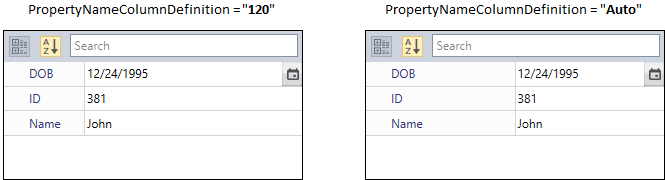
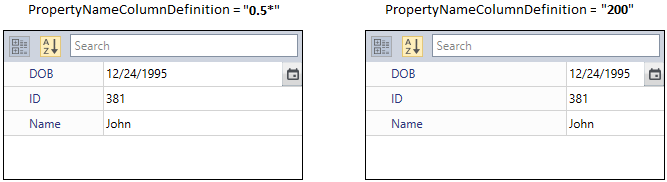
PF-54985-PropertyGrid Review changes committed.

diff --git a/wpf/PropertyGrid/Collection-Editor.md b/wpf/PropertyGrid/Collection-Editor.md
@@ -263,7 +263,7 @@ N> View [Sample](https://github.com/SyncfusionExamples/wpf-property-grid-example
 
 If you want to restrict the user to add or remove the items in the collection type properties, handle the [CollectionEditorOpening](https://help.syncfusion.com/cr/wpf/Syncfusion.Windows.PropertyGrid.PropertyGrid.html#Syncfusion_Windows_PropertyGrid_PropertyGrid_CollectionEditorOpening) event and set the [CollectionEditorOpeningEventArgs.IsReadonly](https://help.syncfusion.com/cr/wpf/Syncfusion.Windows.PropertyGrid.CollectionEditorOpeningEventArgs.html#Syncfusion_Windows_PropertyGrid_CollectionEditorOpeningEventArgs_IsReadonly) property value as `true`. The default value of `CollectionEditorOpeningEventArgs.IsReadonly` property is `false`.
 
-N> You cannot able to add or remove the items into the collection type properties. But, you can edit and save the existing items that are available in the collection type properties.
+N> You will not be able to add or remove the items into the collection type properties. But, you can edit and save the existing items that are available in the collection type properties.
 
 {% tabs %}
 {% highlight C# %}
@@ -364,11 +364,13 @@ private void propertyGrid_CollectionEditorOpening(object sender, CollectionEdito
 
 Here, `Add` and `Remove` buttons are disabled. `Ok` and `Cancel` button are enabled to edit the existing item values.
 
+N> [View Sample in GitHub](https://github.com/SyncfusionExamples/wpf-property-grid-examples/tree/master/Samples/CollectionEditorOpening)
+
 ## Readonly mode for specific property of collection type
 
 If you want to restrict the user to add or remove the items in the specific property of collection type, create that collection property as the type of `ReadOnlyCollection`.
 
-N> You cannot able to add or remove the items into the readonly collection type properties. But, you can edit and save the existing items that are available in the readonly collection type properties.
+N> You will not be able to add or remove the items into the readonly collection type properties. But, you can edit and save the existing items that are available in the readonly collection type properties.
 
 {% tabs %}
 {% highlight C# %}
@@ -452,9 +454,11 @@ propertyGrid.SetBinding(PropertyGrid.SelectedObjectProperty, new Binding("DemoPr
 
 ![Specific collection type property is loaded in readonly mode](CollectionEditor_Images/SpecificCollectionEditorredonly.png)
 
-Here, `Customers` property is a readonly collection type property. So, you cannot able to add or remove the items into the `Customers` property. 
+Here, `Customers` property is a readonly collection type property. So, you will not be able to add or remove the items into the `Customers` property.
 
-## Restrict collection editor window for collection type properties
+N> [View Sample in GitHub](https://github.com/SyncfusionExamples/wpf-property-grid-examples/tree/master/Samples/CollectionEditorOpening)
+
+## Restrict the collection editor from opening
 
 You can restirct the opening of collection editor window which used to edit the collection type properties in `PropertyGrid` by handling the [CollectionEditorOpening](https://help.syncfusion.com/cr/wpf/Syncfusion.Windows.PropertyGrid.PropertyGrid.html#Syncfusion_Windows_PropertyGrid_PropertyGrid_CollectionEditorOpening) event and set the [CollectionEditorOpeningEventArgs.Cancel](https://help.syncfusion.com/cr/wpf/Syncfusion.Windows.PropertyGrid.CollectionEditorOpeningEventArgs.html) property value as `true`. The default value of `CollectionEditorOpeningEventArgs.Cancel` property is `false`.
 
@@ -557,3 +561,5 @@ private void propertyGrid_CollectionEditorOpening(object sender, CollectionEdito
 {% endtabs %}
 
 ![PropertyGrid restrict the collection editor window opening](CollectionEditor_Images/CollectionEditorOpening.png)
+
+N> [View Sample in GitHub](https://github.com/SyncfusionExamples/wpf-property-grid-examples/tree/master/Samples/CollectionEditorOpening)

diff --git a/wpf/PropertyGrid/Getting-Started.md b/wpf/PropertyGrid/Getting-Started.md
@@ -160,59 +160,6 @@ propertyGrid1.SetBinding(PropertyGrid.SelectedObjectProperty, new Binding("Selec
 
 Here, the `SelectedEmployee` object is set as `SelectedObject` for the `PropertyGrid`. Thus, the `PropertyGrid` shows all the properties available in the `SelectedEmployee` object.
 
-## Change property name column width
-
-By default, name of the property items and its value column are splits the available width equally. If you want to changes the property name column width, use the [PropertyNameColumnDefinition](https://help.syncfusion.com/cr/wpf/Syncfusion.Windows.PropertyGrid.PropertyGrid.html#Syncfusion_Windows_PropertyGrid_PropertyGrid_PropertyNameColumnDefinition) property. After changing the property name column width, you can easily reset to the default column width by setting the `PropertyNameColumnDefinition` property values as `Auto`. The default value of `PropertyNameColumnDefinition` property is `Auto`.
-
-{% tabs %}
-{% highlight C# %}
-
-using System;
-using System.ComponentModel;
-using System.ComponentModel.DataAnnotations;
-
-public class Employee {
-    public string Name { get; set; }
-    public string ID { get; set; }
-    public DateTime DOB { get; set; }
-}
-
-public class ViewModel {
-    public Object SelectedEmployee { get; set; }
-    public ViewModel() {
-        SelectedEmployee = new Employee()
-        {
-            Name = "John",
-            ID = "381",
-            DOB = new DateTime(1995, 12, 24)
-        };
-    }
-}
-      
-{% endhighlight %}
-{% endtabs %} 
-
-{% tabs %}
-{% highlight xaml %}
-
-<syncfusion:PropertyGrid PropertyNameColumnDefinition="80"
-                         SelectedObject="{Binding SelectedEmployee}"
-                         x:Name="propertyGrid1">
-    <syncfusion:PropertyGrid.DataContext>
-        <local:ViewModel></local:ViewModel>
-    </syncfusion:PropertyGrid.DataContext>
-</syncfusion:PropertyGrid>
-
-{% endhighlight %} 
-{% highlight C# %}
-
-propertyGrid1.PropertyNameColumnDefinition = new GridLength(80);
-
-{% endhighlight %} 
-{% endtabs %}
-
-![PropertyName column width changed before application loading](Attribute-Images\PropertyNameColumnDefinition.png)
-
 ## Custom Editor as value editors
 
 The [PropertyGrid](https://www.syncfusion.com/wpf-ui-controls/propertygrid) control supports several built-in editors for edit the property values. We can assign own value editor(control) as a value editor for the properties instead of default value editors by using the [Editor](https://docs.microsoft.com/en-us/dotnet/api/system.componentmodel.editorattribute?view=netframework-4.8) attribute or [CustomEditorCollection](https://help.syncfusion.com/cr/wpf/Syncfusion.Windows.PropertyGrid.PropertyGrid.html#Syncfusion_Windows_PropertyGrid_PropertyGrid_CustomEditorCollection). 
@@ -322,7 +269,6 @@ propertyGrid1.SetBinding(PropertyGrid.SelectedObjectProperty, new Binding("Selec
 Here, The `EmailID` property is accepts only the inputs which are in the email-id format by the `EmailEditor`.
 
 ![Property grid with specified custom value editor for EmailID property](CustomEditor-support_images/CustomEditor-Attribute.png)
-
 
 Click [here](https://github.com/SyncfusionExamples/wpf-property-grid-examples/tree/master/Samples/CustomEditor) to download the sample that showcases the `CustomEditor` support.
 

diff --git a/wpf/PropertyGrid/DisplayName.md b/wpf/PropertyGrid/DisplayName.md
@@ -150,9 +150,13 @@ Here, the `Name` and `DOB`property display name is changed as `Employee Name` an
 
 Click [here](https://github.com/SyncfusionExamples/wpf-property-grid-examples/tree/master/Samples/AutoGeneratingPropertyGridItem%20event) to download the sample that showcases the property `Display Name` support using `AutoGeneratingPropertyGridItem` event.
 
-## Change property name column width
+## Change width of property's name column
 
-By default, name of the property items and its value column are splits the available width equally. If you want to changes the property name column width, use the [PropertyNameColumnDefinition](https://help.syncfusion.com/cr/wpf/Syncfusion.Windows.PropertyGrid.PropertyGrid.html#Syncfusion_Windows_PropertyGrid_PropertyGrid_PropertyNameColumnDefinition) property. After changing the property name column width, you can easily reset to the default column width by setting the `PropertyNameColumnDefinition` property values as `Auto`. The default value of `PropertyNameColumnDefinition` property is `Auto`.
+By default, you can change the width of property's name column by using grid splitter after loading the control. If you want to set or changes the width of property's name column when loading the `PropertyGrid`, use the [PropertyNameColumnDefinition](https://help.syncfusion.com/cr/wpf/Syncfusion.Windows.PropertyGrid.PropertyGrid.html#Syncfusion_Windows_PropertyGrid_PropertyGrid_PropertyNameColumnDefinition) property. 
+
+You can use the `double` or `Star` values for changing the column definition. The default value of `PropertyNameColumnDefinition` property is `1*`. Property's value column always occupiers `1*`, which cannot be changed.
+
+For example, if you set the value for `PropertyNameColumnDefinition` property to `200`, then property's name column occupies `200` pixels. On the other hands, if `0.5*` is set to `PropertyNameColumnDefinition` property, then property's name column occupies, one third of available width. Remaining two third is occupied by property's value column. 
 
 {% tabs %}
 {% highlight C# %}
@@ -185,7 +189,7 @@ public class ViewModel {
 {% tabs %}
 {% highlight xaml %}
 
-<syncfusion:PropertyGrid PropertyNameColumnDefinition="80"
+<syncfusion:PropertyGrid PropertyNameColumnDefinition="0.5*"
                          SelectedObject="{Binding SelectedEmployee}"
                          x:Name="propertyGrid1">
     <syncfusion:PropertyGrid.DataContext>
@@ -196,9 +200,11 @@ public class ViewModel {
 {% endhighlight %} 
 {% highlight C# %}
 
-propertyGrid1.PropertyNameColumnDefinition = new GridLength(80);
+propertyGrid1.PropertyNameColumnDefinition = new GridLength(0.5, GridUnitType.Star);
 
 {% endhighlight %} 
 {% endtabs %}
 
 ![PropertyName column width changed before application loading](Attribute-Images\PropertyNameColumnDefinition.png)
+
+N> [View Sample in GitHub](https://github.com/SyncfusionExamples/wpf-property-grid-examples/tree/master/Samples/Common)
